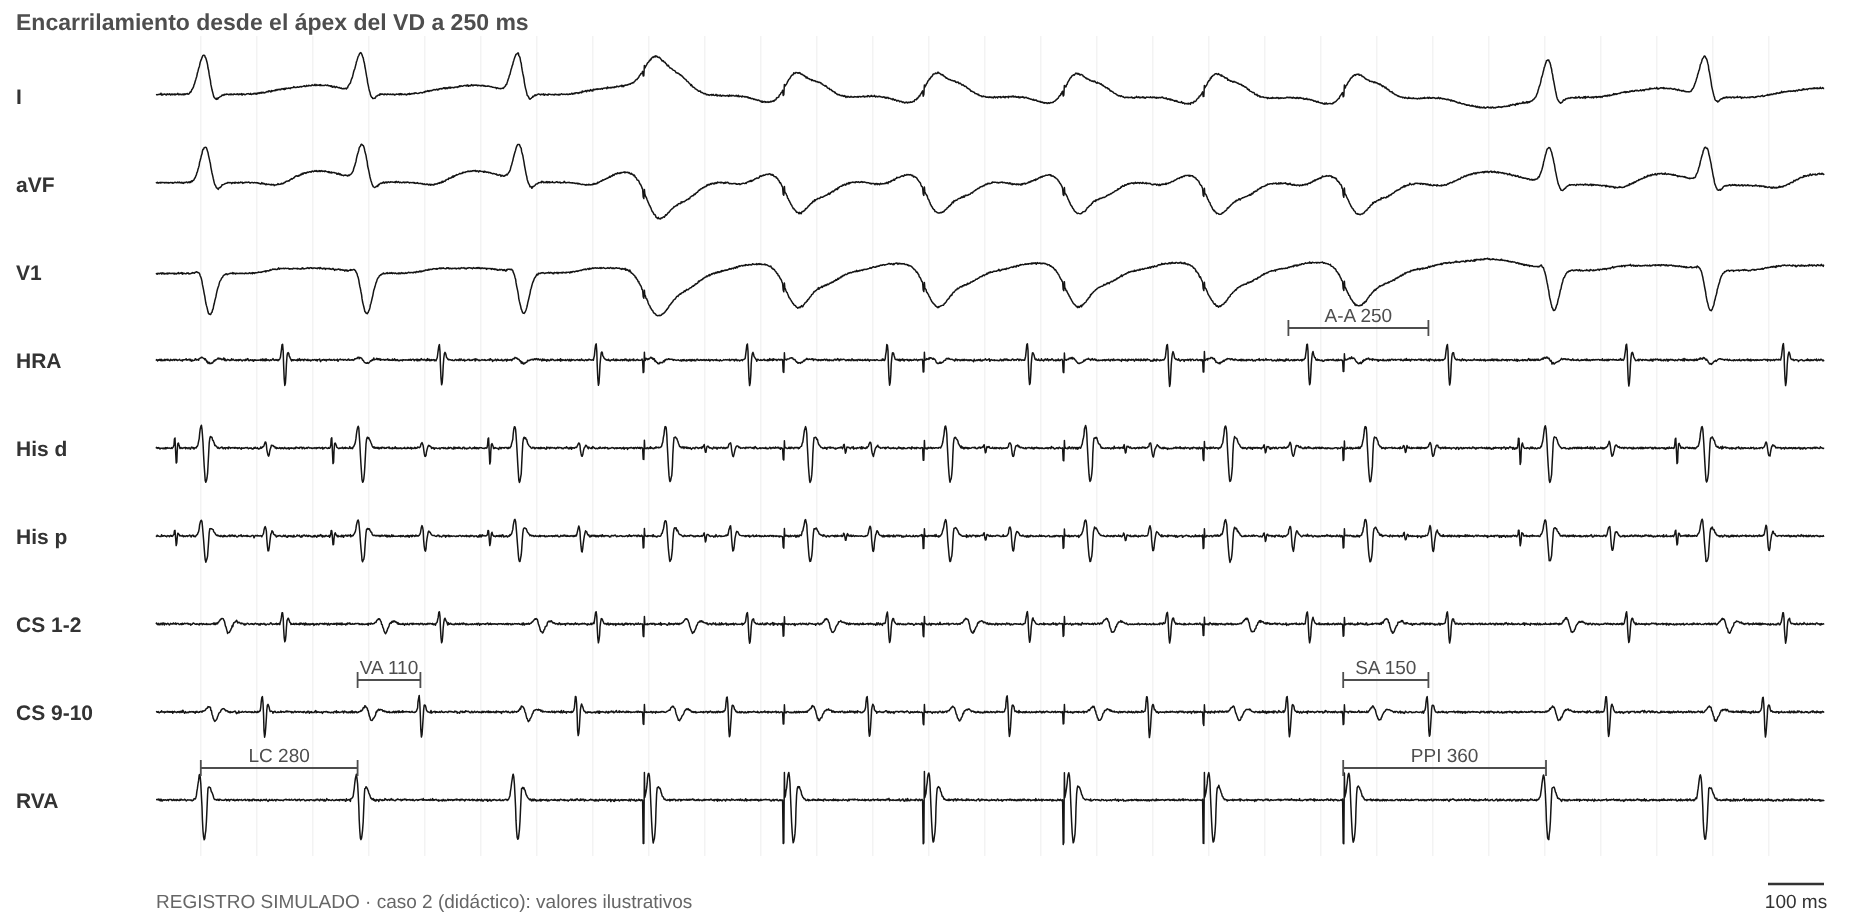
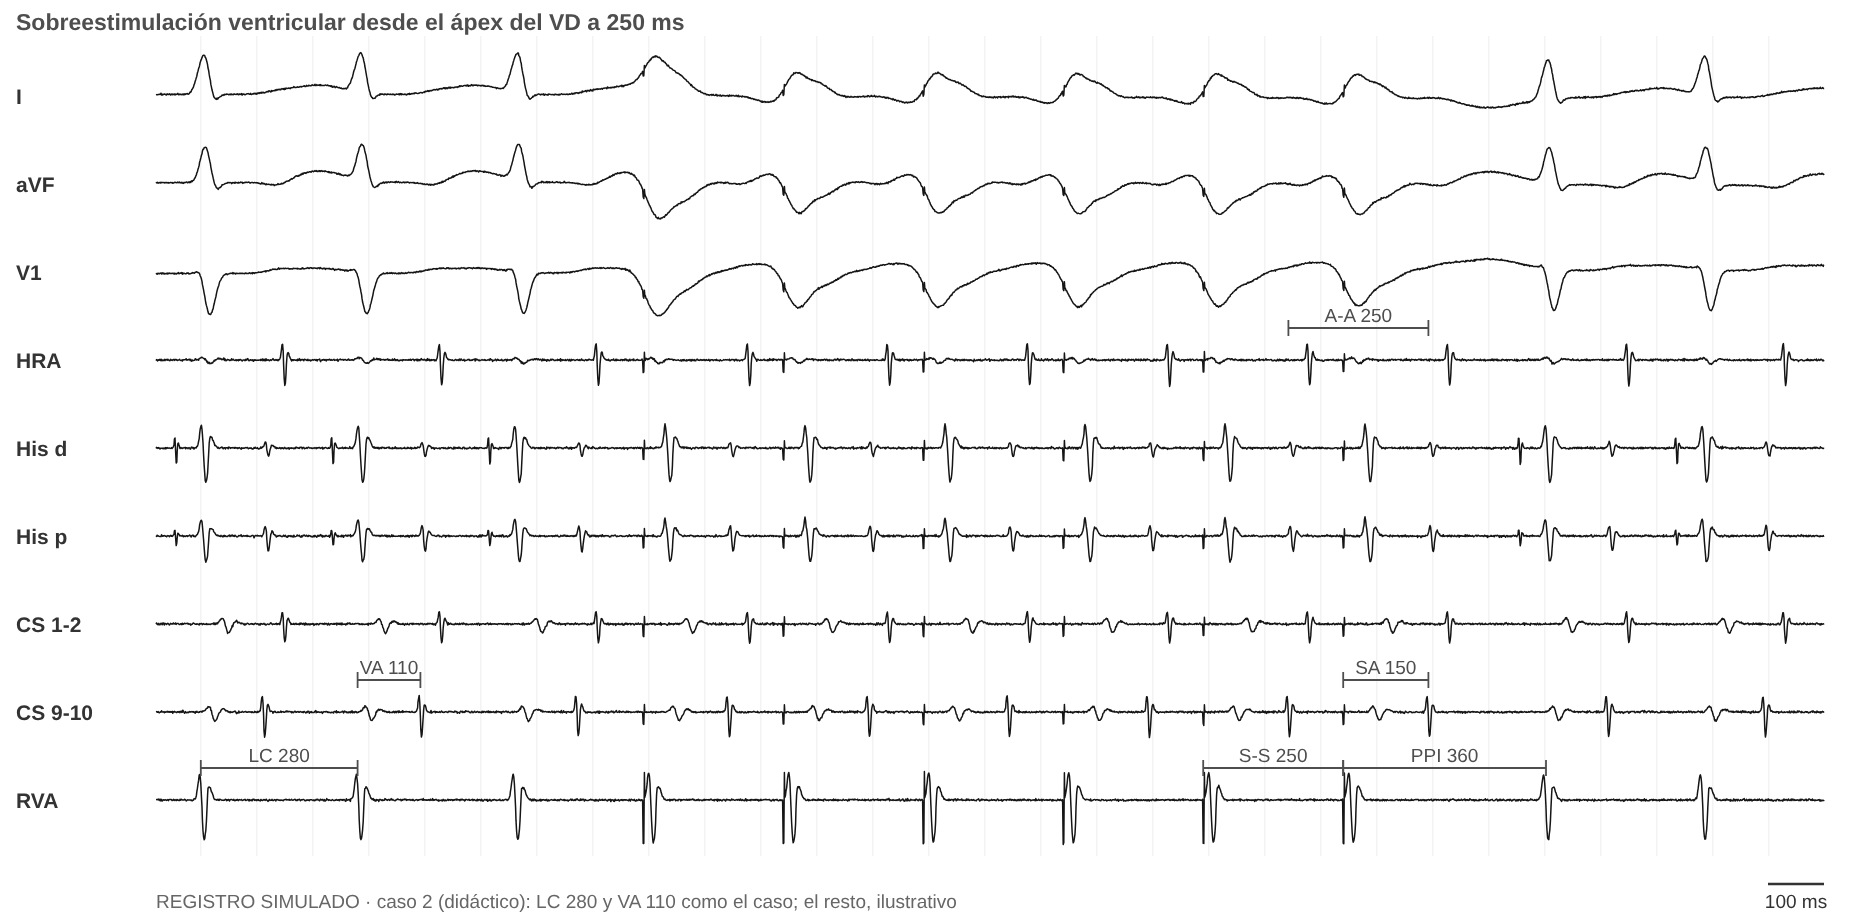
Caso 2 en el formato nuevo: valores durante el análisis, devolución paso a paso y todas las maniobras simuladas (LC 280, VA 110)
Claude-Session: https://claude.ai/code/session_01Pw5rjt62KK5LeJZoEyFiaM

Changed region(s): [[0.0, 0.0, 0.3734, 0.0303], [0.28, 0.9697, 0.529, 1.0], [0.6534, 0.8182, 0.7157, 0.8485]]

diff --git a/index.html b/index.html
@@ -1277,15 +1277,17 @@ const PCASOS = [
       ehr: { v: 'EV con el His refractario: la A siguiente no cambia (A-A 340) y la taquicardia sigue.', r: 'No modifica la A: no hay una vía que participe en el circuito (no descarta una vía espectadora).', u: 'util', img: 'figs/sim/prac/p1_ehr.png' } },
     dx: ['trnav_t'], ex: 'Un VA septal ≤ 70 ms excluye la TRAV, y la respuesta A-V a la sobreestimulación ventricular excluye la TA. Con esas dos observaciones se llega a la TRNAV típica (41 % de las TSV en la serie de Knight).', refs: ['knight00', 'knight99', 'veen11'] },
   { id: 'c2', t: 'TSV de RP corto con VA de 110 ms', p: 'Niña de 10 años con TSV recurrentes. ECG basal sin preexcitación.',
-    ecg: 'figs/sim/casos/c2_ecg.jpg', ecgReal: true, basal: 'figs/sim/casos/c2_basal.png', ind: 'figs/sim/casos/c2_ind.png',
-    h: ['TSV de QRS angosto, LC 280 ms', 'Relación AV 1:1', 'VA septal 110 ms, RP corto', 'Activación concéntrica, más precoz en el ostium del SC'],
-    m: { vop: { r: 'Respuesta A-V. Desde el ápex el QRS estimulado no muestra fusión evidente.', u: 'util' },
-      medidas: { r: 'PPI−LC 80 ms; SA−VA 40 ms; ΔHA −45 ms.', u: 'clave', img: 'figs/sim/prac/p2_vop.png' },
-      ehr: { r: 'Una EV con His refractario adelanta la A 25 ms sin cambiar la secuencia.', u: 'clave', img: 'figs/sim/prac/p2_ehr.png' },
-      diff: { r: 'ΔVA (base − ápex) −10 ms; ΔcPPI−LC +2 ms.', u: 'util' },
-      parahis: { r: 'Al perder la captura del His el SA no cambia: respuesta extranodal.', u: 'util' },
-      pre: { r: 'Sin doble vía. Conducción VA no decremental, concéntrica, más precoz en el ostium del SC.', u: 'util' },
-      aop: { r: 'VA linking presente.' }, ado: { r: 'La TSV termina con una A.' } },
+    ecg: 'figs/sim/casos/c2_ecg.jpg', ecgReal: true, basal: 'figs/sim/casos/c2_basal.png', ind: 'figs/sim/casos/c2_ind.png', indt: 'Extraestímulo auricular S1-S2 600-300',
+    h: ['TSV de QRS angosto, LC 280 ms, relación AV 1:1', 'Protocolo: extraestímulo auricular desde la AD alta, S1-S2 600-300'],
+    hk: ['VA septal 110 ms (> 70 ms): excluye la TRNAV típica. Con la A más precoz en el ostium del SC quedan la TRAV por vía septal y la TRNAV atípica.'],
+    m: { vop: { v: 'Estimulando el ápex del VD a 250 ms las A se aceleran a 250 con la misma secuencia. Al cortar, el primer electrograma que sigue a la última A es un V (secuencia A-V).', r: 'Respuesta A-V: excluye la TA.', u: 'clave', img: 'figs/sim/prac/p2_vop.png' },
+      medidas: { v: 'PPI 360 ms con LC 280 (PPI−LC 80). SA 150 ms con VA 110 (SA−VA 40). HA 155 en la TSV y 110 estimulando (ΔHA −45).', r: 'PPI−LC < 115 y SA−VA < 85: el ventrículo está en el circuito. ΔHA < −10: estimulando, His y A se activan en paralelo (en la TSV, en serie). Las tres apuntan a TRAV.', u: 'clave', img: 'figs/sim/prac/p2_medidas.png' },
+      diff: { v: 'Encarrilando a 250 ms: SA 150 desde el ápex y SA 140 desde la base del VD (VA 110). ΔVA (base − ápex) −10 ms.', r: 'ΔVA ≤ 20 ms: desde la base el frente llega antes a la vía septal; TRAV.', u: 'clave', img: 'figs/sim/prac/p2_diff.png' },
+      ehr: { v: 'EV desde el ápex con el His refractario: la A siguiente se adelanta 25 ms (A-A 255) con la misma secuencia y la taquicardia sigue.', r: 'Con el His refractario la EV solo pudo llegar a la A por una vía: demuestra la vía y que participa en el circuito (resetea la taquicardia).', u: 'clave', img: 'figs/sim/prac/p2_ehr.png' },
+      parahis: { v: 'En sinusal, con captura del His: SA 100 y QRS 95. Solo V: SA 100 y QRS 150. Misma secuencia auricular.', r: 'Respuesta extranodal: el SA no cambia al perder el His; hay una vía septal conduciendo.', u: 'util', img: 'figs/sim/prac/p2_parahis.png' },
+      pre: { v: 'Estimulación ventricular en sinusal a 500 y 400 ms.', r: 'SA 125 a las dos frecuencias (no decremental), con la A más precoz en el ostium del SC: conducción VA por una vía septal.', u: 'util', img: 'figs/sim/prac/p2_pre.png' },
+      aop: { v: 'Estimulando la AD alta a 260 ms los V se aceleran a 260 (V-V 260; en la TSV, 280). Al cortar, el VA del primer latido es 110 ms, igual al de la TSV.', r: 'VA linking: la A de retorno depende del V; excluye la TA.', u: 'util', img: 'figs/sim/prac/p2_aop.png' },
+      ado: { v: 'La taquicardia termina: el último latido es una A que no conduce al V.', r: 'Terminación con una A: excluye la TA, pero no distingue TRAV de TRNAV.', u: 'util', img: 'figs/sim/prac/p2_ado.png' } },
     dx: ['trav_s'], ex: 'Con VA > 70 ms y respuesta A-V, el diferencial es TRAV septal vs TRNAV atípica. PPI−LC < 115, SA−VA < 85 y ΔHA < 0 apuntan a TRAV, y la EV con His refractario que adelanta la A demuestra la vía.', refs: ['michaud01', 'ho08', 'veen12'] },
   { id: 'c3', t: 'Taquicardia incesante con disfunción ventricular', p: 'Niña de 2 años con taquicardia incesante y FEVI de 45 %.',
     ecg: 'figs/sim/casos/c3_ecg.png', ecgReal: true, basal: 'figs/sim/casos/c3_basal.png', ind: 'figs/sim/casos/c3_ind.png',
@@ -2030,7 +2032,7 @@ $('#goEnr').onclick = () => locView('enr'); $('#goObl').onclick = () => openFich
 document.querySelectorAll('[data-back]').forEach(b => b.onclick = () => locView('hub'));
 try { const t = location.hash === '#localizar' ? 'loc' : localStorage.getItem('mef_tab'); if (t) tab(t); } catch (e) {}
 checkReview();
-const APPV = 143;   // igual al número de CACHE_VERSION de sw.js
+const APPV = 144;   // igual al número de CACHE_VERSION de sw.js
 if ('serviceWorker' in navigator && location.protocol === 'https:') {
   navigator.serviceWorker.register('sw.js').then(r => r.update()).catch(() => {});
   // cuando se instala una versión nueva, recarga una vez para mostrarla

diff --git a/sw.js b/sw.js
@@ -1,6 +1,6 @@
 // Permite instalar la app y abrirla sin conexión. Primero la red (siempre lo último publicado); si no hay, la copia.
 // Si cambiás un archivo, subí CACHE_VERSION.
-const CACHE_VERSION = 'mef-v143';
+const CACHE_VERSION = 'mef-v144';
 const ARCHIVOS = ['./', './index.html', './manifest.json', './iconos/icon-192.png', './iconos/icon-512.png'];
 self.addEventListener('install', e => e.waitUntil(caches.open(CACHE_VERSION).then(c => c.addAll(ARCHIVOS)).then(() => self.skipWaiting())));
 self.addEventListener('activate', e => e.waitUntil(caches.keys().then(ks => Promise.all(ks.filter(k => k !== CACHE_VERSION).map(k => caches.delete(k)))).then(() => self.clients.claim())));

diff --git a/herramientas/simulador/cases6.py b/herramientas/simulador/cases6.py
@@ -125,6 +125,113 @@ S['p1_eha'] = dict(win=(-100, vs[-1] + 250), pxms=0.25, title='EA con His refrac
     cal=[(hs[3], hs[4], 'His d', f'H-H {LC}'), (hs[4], hs[5], 'His d', f'H-H {LC + 14}')],
     marks=[(apb, 'V1', 'EA')])
 
+# =====================================================================================================
+# Caso 2 (TRAV por vía septal; LC 280 como el ECG real del caso, VA 110, A más precoz en el ostium del SC).
+# Michaud 2001: SA−VA 40, PPI−LC 80; ΔHA −45 y EV-HR que adelanta 25 ms, ilustrativos.
+SRC2 = 'caso 2 (didáctico): LC 280 y VA 110 como el caso; el resto, ilustrativo'
+LC2, VA2, SC2, SA2, PPI2, HAt2, HAp2 = 280, 110, 250, 150, 360, 155, 110
+
+
+def vop2(title, med):
+    svt = [0, LC2, 2 * LC2]
+    sp = [svt[-1] + 230 + SC2 * k for k in range(6)]
+    A = [v + VA2 for v in svt] + [s + SA2 for s in sp]
+    ret = sp[-1] + PPI2
+    after = [ret, ret + LC2]
+    cal = [(svt[0], svt[1], 'RVA', f'LC {LC2}'), (svt[1], svt[1] + VA2 + 2, 'CS 9-10', f'VA {VA2}'),
+           (sp[-2], sp[-1], 'RVA', f'S-S {SC2}'), (A[-2] + 2, A[-1] + 2, 'HRA', f'A-A {SC2}'),
+           (sp[-1], A[-1] + 2, 'CS 9-10', f'SA {SA2}'), (sp[-1], ret + 2, 'RVA', f'PPI {PPI2}')]
+    marks = []
+    if med:
+        cal += [(svt[1] - HV, svt[1] + VA2, 'His p', f'HA {HAt2}'), (sp[-1] + SA2 - HAp2, A[-1], 'His p', f'HA {HAp2}')]
+        marks = [(sp[-1] + 200, 'I', f'SA − VA = {SA2} − {VA2} = {SA2 - VA2} ms'), (sp[-1] + 200, 'aVF', f'PPI − LC = {PPI2} − {LC2} = {PPI2 - LC2} ms'),
+                 (sp[-1] + 200, 'V1', f'ΔHA = {HAp2} − {HAt2} = {HAp2 - HAt2} ms')]
+    return dict(win=(-80, after[-1] + 220), pxms=0.28, title=title, channels=CH6, src=SRC2,
+        beats=[(v, 'n') for v in svt + after] + [(s, 'pa') for s in sp], spikes=sp,
+        atr=[(a, 'conc_cs', -1) for a in A + [v + VA2 for v in after]],
+        h_ante=[v - HV for v in svt + after], h_retro=[s + SA2 - HAp2 for s in sp], cal=cal, marks=marks)
+
+
+S['p2_vop'] = vop2('Sobreestimulación ventricular desde el ápex del VD a 250 ms', False)
+S['p2_medidas'] = vop2('Medidas sobre la sobreestimulación ventricular (ápex del VD a 250 ms): PPI, SA y HA', True)
+
+
+def diff2(sa, typ, title):
+    svt = [0, LC2]
+    sp = [600 + SC2 * k for k in range(6)]
+    A = [v + VA2 for v in svt] + [s + sa for s in sp]
+    ret = sp[-1] + PPI2 + (sa - SA2)
+    return dict(win=(-80, ret + LC2 + 220), pxms=0.24, channels=CH6, title=title, spikes=sp, pace_ch='RVA', src=SRC2,
+        beats=[(v, 'n') for v in svt] + [(s, typ) for s in sp] + [(ret, 'n'), (ret + LC2, 'n')],
+        atr=[(a, 'conc_cs', -1) for a in A] + [(ret + VA2, 'conc_cs', -1), (ret + LC2 + VA2, 'conc_cs', -1)],
+        h_ante=[v - HV for v in svt] + [ret - HV, ret + LC2 - HV], h_retro=[s + sa - HAp2 for s in sp],
+        cal=[(svt[1], svt[1] + VA2 + 2, 'CS 9-10', f'VA {VA2}'), (sp[-1], A[-1] + 2, 'CS 9-10', f'SA {sa}'), (svt[0], svt[1], 'RVA', f'LC {LC2}')])
+
+
+S['p2_diff_a'] = diff2(150, 'pa', 'A. Encarrilamiento desde el ápex del VD (250 ms)')
+S['p2_diff_b'] = diff2(140, 'pb', 'B. Encarrilamiento desde la base del VD (250 ms)')
+
+
+def ehr2():
+    k = 3
+    vs = [i * LC2 for i in range(k)]
+    h_exp = k * LC2 - HV
+    A = [v + VA2 for v in vs] + [k * LC2 + VA2 - 25]
+    nxt = A[-1] + (LC2 - VA2)
+    after = [nxt, nxt + LC2]
+    A += [v + VA2 for v in after]
+    return dict(win=(-80, after[-1] + 200), pxms=0.30, title='EV con His refractario durante la taquicardia', channels=CH6, src=SRC2,
+        spikes=[h_exp], pace_ch='RVA', beats=[(v, 'n') for v in vs] + [(h_exp, 'pa')] + [(v, 'n') for v in after],
+        atr=[(a, 'conc_cs', -1) for a in A], h_ante=[v - HV for v in vs] + [h_exp] + [v - HV for v in after],
+        cal=[(A[k - 2] + 2, A[k - 1] + 2, 'CS 9-10', f'A-A {LC2}'), (A[k - 1] + 2, A[k] + 2, 'CS 9-10', f'A-A {LC2 - 25}')],
+        marks=[(h_exp, 'V1', 'EV'), (h_exp, 'His p', 'H')])
+
+
+S['p2_ehr'] = ehr2()
+
+
+def parahis2():
+    sp = [0, 650, 1300, 1950]
+    cap = [True, False, True, False]
+    beats = [(s + HV if c else s, 'n' if c else 'pa') for s, c in zip(sp, cap)]
+    A = [s + 100 for s in sp]
+    return dict(win=(-80, 2300), pxms=0.32, title='Estimulación para-Hisiana en ritmo sinusal', channels=CH6, src=SRC2,
+        spikes=sp, pace_ch='His p', beats=beats, atr=[(a, 'conc_cs', -1) for a in A],
+        cal=[(sp[0], A[0] + 2, 'CS 9-10', 'SA 100'), (sp[1], A[1] + 2, 'CS 9-10', 'SA 100'),
+             (sp[2] + HV, sp[2] + HV + 95, 'RVA', 'QRS 95'), (sp[3], sp[3] + 150, 'RVA', 'QRS 150')],
+        marks=[(sp[0] + 30, 'V1', 'His + V'), (sp[1] + 40, 'V1', 'solo V')])
+
+
+S['p2_parahis'] = parahis2()
+
+# Estudio basal: estimulación del VD a 500 y 400 ms, SA 125 en los dos (no decremental), concéntrica con la A precoz en el ostium del SC.
+sp = [0, 500, 1000, 1400, 1800]
+S['p2_pre'] = dict(win=(-80, 2150), pxms=0.30, title='Estimulación ventricular en ritmo sinusal: 500 y 400 ms', channels=CH6, src=SRC2,
+    spikes=sp, beats=[(s, 'pa') for s in sp], atr=[(s + 125, 'conc_cs', -1) for s in sp], h_retro=[s + 60 for s in sp],
+    cal=[(sp[0], sp[1], 'RVA', 'S-S 500'), (sp[1], sp[1] + 127, 'CS 9-10', 'SA 125'), (sp[2], sp[3], 'RVA', 'S-S 400'), (sp[3], sp[3] + 127, 'CS 9-10', 'SA 125')])
+
+# Sobreestimulación auricular desde la AD alta a 260 ms: al cortar, VA del primer latido = 110.
+AHs2 = 150
+vs = [0, LC2, 2 * LC2]
+A = [v + VA2 for v in vs]
+sp = [A[-1] + 200 + 260 * k for k in range(6)]
+pv = [s + 28 + AHs2 + HV for s in sp]
+vs2 = [pv[-1] + LC2, pv[-1] + 2 * LC2]
+S['p2_aop'] = dict(win=(-80, vs2[-1] + 220), pxms=0.22, title='Sobreestimulación auricular desde la AD alta a 260 ms', channels=CH6, src=SRC2,
+    beats=[(v, 'n') for v in vs + pv + vs2], aspikes=sp, apace_ch='HRA',
+    atr=[(a, 'conc_cs', -1) for a in A] + [(s + 5, 'sinus', 1) for s in sp] + [(v + VA2, 'conc_cs', -1) for v in [pv[-1]] + vs2],
+    h_ante=[v - HV for v in vs + pv + vs2],
+    cal=[(vs[1], vs[1] + VA2 + 2, 'CS 9-10', f'VA {VA2}'), (vs[0], vs[1], 'RVA', f'V-V {LC2}'), (sp[-2], sp[-1], 'HRA', 'S-S 260'),
+         (pv[-2], pv[-1], 'RVA', 'V-V 260'), (pv[-1], pv[-1] + VA2 + 2, 'CS 9-10', f'VA {VA2}')])
+
+# Adenosina: termina con una A (bloqueo en el nodo).
+vs = [0, LC2, 2 * LC2, 3 * LC2]
+A = [v + VA2 for v in vs]
+S['p2_ado'] = dict(win=(-80, A[-1] + 900), pxms=0.25, title='Adenosina IV durante la taquicardia', channels=CH6, src=SRC2,
+    beats=[(v, 'n') for v in vs], atr=[(a, 'conc_cs', -1) for a in A], h_ante=[v - HV for v in vs],
+    cal=[(vs[1], vs[2], 'RVA', f'LC {LC2}'), (vs[3], A[3] + 2, 'CS 9-10', f'VA {VA2}')],
+    marks=[(A[3] + 60, 'aVF', 'última: A sin V')])
+
 if __name__ == '__main__':
     for k in (sys.argv[3:] or S):
         render(S[k], f'{OUT}/{k}.svg')

diff --git a/herramientas/simulador/cases4.py b/herramientas/simulador/cases4.py
@@ -30,7 +30,7 @@ def ehr(LC, VA, seq, d, k_spike=3, early=0, typ='pa', pace='RVA', n_after=2, tit
 
 
 # Caso 2: TRAV septal, LC 280 (como el ECG real del caso), VA 110; EV-HR adelanta la A 25 ms.
-S['p2_ehr'] = ehr(280, 110, 'conc_cs', 25, src='caso 2 (didáctico): LC 280, VA 110; la EV con His refractario adelanta la A 25 ms',
+S['p2old_ehr'] = ehr(280, 110, 'conc_cs', 25, src='caso 2 (didáctico): LC 280, VA 110; la EV con His refractario adelanta la A 25 ms',
                   lab='A-A 255 (−25)')
 # Caso 5: TRNAV atípica, LC 380, VA 265; EV-HR adelanta el V local > 60 ms y no cambia la A.
 S['p5_ehr'] = ehr(460, 300, 'conc_cs', 0, early=25, src='caso 5 (LC 460 como el ECG real, VA 300); EV-HR con el V local adelantado > 60 ms, sin cambio de la A',

diff --git a/herramientas/simulador/cases5.py b/herramientas/simulador/cases5.py
@@ -198,7 +198,7 @@ sp = [svt[-1] + 230 + SC2 * k for k in range(6)]
 A = [v + VA2 for v in svt] + [s + SA2 for s in sp]
 ret = sp[-1] + PPI2
 after = [ret, ret + LC2]
-S['p2_vop'] = dict(win=(-80, after[-1] + 220), pxms=0.28, title='Encarrilamiento desde el ápex del VD a 250 ms', channels=CH6,
+S['p2old_vop'] = dict(win=(-80, after[-1] + 220), pxms=0.28, title='Encarrilamiento desde el ápex del VD a 250 ms', channels=CH6,
     src='caso 2 (didáctico): valores ilustrativos',
     beats=[(v, 'n') for v in svt + after] + [(s, 'pa') for s in sp], spikes=sp,
     atr=[(a, 'conc_cs', -1) for a in A + [v + VA2 for v in after]],
